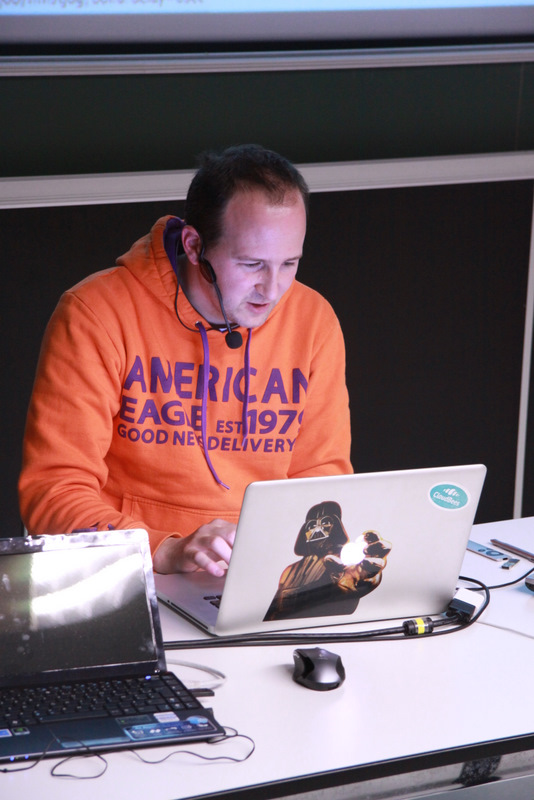
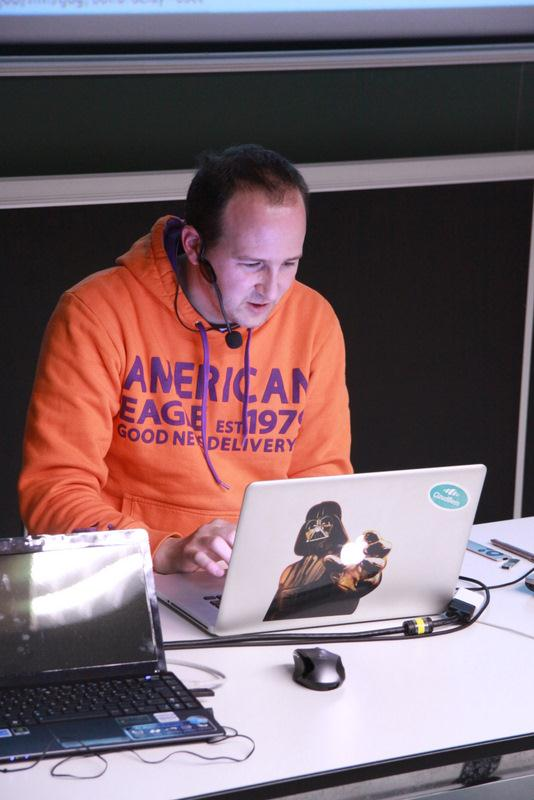
improve baggers imgs filesize

Changed region(s): [[0.2097, 0.4062, 0.5693, 0.625], [0.3296, 0.3438, 0.3596, 0.4062], [0.3596, 0.4062, 0.3895, 0.4375]]

diff --git a/js/baggers.js b/js/baggers.js
@@ -500,7 +500,7 @@ var data = {
                 {
                     name: "Sylvain Abélard",
                     bio: "Problem Solver chez Faveod",
-                    picture: "img/baggers/photo_sylvain.png",
+                    picture: "img/baggers/photo_sylvain.jpg",
                     websites: [
                         { title: "Faveod", href: "http://www.faveod.com" },
                         { title: "Site perso", href: "http://maitre-du-monde.fr" }
@@ -887,7 +887,7 @@ var data = {
                 {
                     name: "Baptiste Mathus",
                     bio: "Développeur passionné, Committer OSS Mojo@Codehaus, Leader @ToulouseJUG",
-                    picture: "img/baggers/bm-cul-de-poule.png",
+                    picture: "img/baggers/bm-cul-de-poule.jpg",
                     websites: [
                         {title: "GitHub", href: "https://github.com/batmat"},
                         {title: "Blog", href: "http://batmat.net/"},
